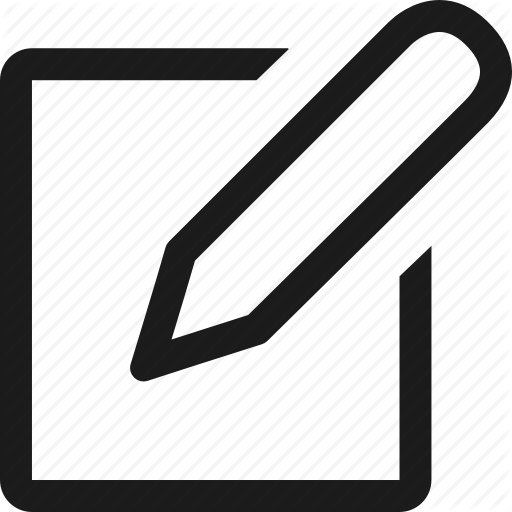
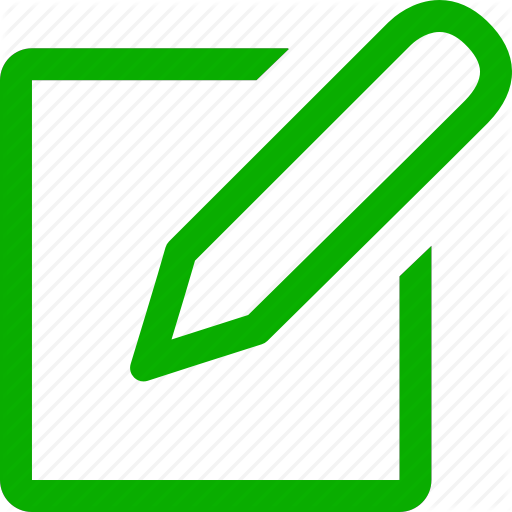
changed background and colors

Changed region(s): [[0.25, 0.0, 1.0, 0.75], [0.0, 0.0938, 0.8438, 1.0]]

diff --git a/src/components/inputFields.vue b/src/components/inputFields.vue
@@ -1,33 +1,37 @@
 <template>
   <div>
-    <div class="container">
-      <div class="row form">
-        <form class="col s12" id="inputFields">
-          <div class="row">
-            <div class="input-field col s12">
-              <i class="material-icons prefix">mode_edit</i>
-              <textarea v-model="noteTitle"
-                        id="icon_prefix2"
-                        class="materialize-textarea">
-              </textarea>
-              <label for="icon_prefix2">Note title</label>
-            </div>
-          </div>
-          <div class="row">
-            <div class="input-field col s12">
-              <i class="material-icons prefix">note</i>
-              <textarea v-model="noteVal" id="icon_prefix2" class="materialize-textarea"></textarea>
-              <label for="icon_prefix2">Note text</label>
-              <span id="errorMesagge"
-                    v-if="!valid">
-                    Can't add note. Note must have title and note text!
-              </span>
-              <div class="col s12">
-                <a @click="addNote()" class="waves-effect waves-light btn add">add note</a>
+    <div id="component">
+      <div class="container">
+        <div class="row form">
+          <form class="col s12" id="inputFields">
+            <div class="row">
+              <div class="input-field col s12">
+                <i class="material-icons prefix">mode_edit</i>
+                <textarea v-model="noteTitle"
+                          id="icon_prefix2"
+                          class="materialize-textarea">
+                </textarea>
+                <label for="icon_prefix2">Note title</label>
               </div>
             </div>
-          </div>
-        </form>
+            <div class="row">
+              <div class="input-field col s12">
+                <i class="material-icons prefix">note</i>
+                <textarea v-model="noteVal" id="icon_prefix2"
+                          class="materialize-textarea">
+                </textarea>
+                <label for="icon_prefix2">Note text</label>
+                <span id="errorMesagge"
+                      v-if="!valid">
+                      Can't add note. Note must have title and note text!
+                </span>
+                <div class="col s12">
+                  <a @click="addNote()" class="waves-effect waves-light btn add">add note</a>
+                </div>
+              </div>
+            </div>
+          </form>
+        </div>
       </div>
     </div>
   </div>
@@ -90,14 +94,46 @@ export default {
 };
 </script>
 <style lang="scss" scoped>
-  .container{
-    margin-top: 50px;
-    border: 3px inset #26a69a;
-  }
-  .form{
-    padding: 20px;
+body{
+  width: 100%;
+}
+  #component{
+    padding: 30px;
     margin: 0;
-    z-index: 0;
+    // position: absolute;
+    top: 50px;
+    left: 0;
+    width: 100%;
+    //background-image: url('../assets/back.jpg');
+  }
+  .container{
+    margin-top: 20px;
+    border: 4px inset #E5002D;
+    background-color: rgba(229, 255, 255, 0.7);
+    form{
+      color: #E5002D;
+      z-index: 0;
+      padding-top: 20px;
+      label{
+        color: black !important;
+      }
+      textarea{
+        border-bottom-color: black;
+      }
+    }
+  }
+  .input-field textarea{
+    border-bottom: 1px solid #E5002D !important;
+  }
+  .input-field textarea:focus + label {
+    color: #000;
+  }
+  .input-field textarea:focus {
+    border-bottom: 2px solid #45D500 !important;
+    box-shadow: 0 1px 0 0 #000;
+  }
+  .input-field .prefix.active {
+    color: #45D500;
   }
   a{
     z-index: 0;
@@ -108,7 +144,15 @@ export default {
   .add{
     margin-top: 20px;
     width: 30%;
+    background-color: #E5002D;
+    color: #45D500;
+    &:hover{
+      color: #E5002D;
+      background-color: #45D500;
+      font-weight: bold;
+    }
   }
+
   #errorMesagge{
     color: red;
   }

diff --git a/src/App.vue b/src/App.vue
@@ -1,10 +1,14 @@
 <template>
-  <div id="app">
+  <div id="app" class="pen">
     <navBar id="nav"/>
+    <div class="full">
     <div class="container">
-      <input-fields id="fields"/>
+      <input-fields id="fields" class="panel top"/>
     </div>
+    </div>
+
     <notesToDisplay/>
+    <footerBottom/>
   </div>
 </template>
 
@@ -12,6 +16,7 @@
 import navBar from './components/navBar.vue';
 import inputFields from './components/inputFields.vue';
 import notesToDisplay from './components/notesToDisplay.vue';
+import footerBottom from './components/footerBottom.vue';
 
 export default {
   name: 'app',
@@ -19,6 +24,7 @@ export default {
     navBar,
     inputFields,
     notesToDisplay,
+    footerBottom,
   },
   mounted() {
     // eslint-disable-next-line
@@ -29,8 +35,12 @@ export default {
 
 <style lang="scss">
 body{
-  margin: 0;
-  background-color: aquamarine;
+  height: 100%;
+  background-color: #FF96AB;
+  //background-color: #E5002D;
+  background-color: #45D500;
+  background-image: url('./assets/back.jpg');
+  background-repeat: repeat-y;
 }
 #nav{
   position: absolute;
@@ -38,7 +48,11 @@ body{
 }
 #fields{
   z-index: 0;
-  margin-top: 100px;
+  margin-top: 40px;
+}
+.full{
+  width: 100%;
+  border-bottom: 6px solid #E5002D;
 }
 #app {
   position: absolute;

diff --git a/src/components/noteCard.vue b/src/components/noteCard.vue
@@ -87,31 +87,45 @@ export default {
 </script>
 
 <style lang="scss" scoped>
-@media only screen and (max-width : 1500px) {
-  .card{
-    width: 200px !important;
+  @media only screen and (max-width : 1500px) {
+    .card{
+      width: 200px !important;
+    }
   }
-}
-@media only screen and (max-width : 500px) {
-  .card{
-    width: 300px !important;
+  @media only screen and (max-width : 500px) {
+    .card{
+      width: 300px !important;
+    }
   }
-}
-.col{
-  width: 300px;
-}
-.card{
-  width: 300px;
-  background-color: #036B60 !important;
-  word-wrap: break-word;
-}
-.textArea{
-  overflow-y: auto;
-}
-#text{
-  margin-top: 40px;
-}
-.card-title{
-  border-bottom: 1px solid aquamarine;
-}
+  .col{
+    width: 300px;
+  }
+
+  .card{
+    width: 300px;
+    background-color: #E5002D;
+    word-wrap: break-word;
+    background-size: 100%;
+  }
+  .textArea{
+    overflow-y: auto;
+  }
+  #text{
+    margin-top: 40px;
+  }
+  .card-title{
+    border-bottom: 1px solid #45D500;
+  }
+  .card-action{
+    border-top-color: #45D500 !important;
+    a{
+      color: #45D500 !important;
+      &:hover{
+        font-weight: bold;
+      }
+    }
+  }
+  .input-field .prefix.active {
+    color: #45D500;
+  }
 </style>

diff --git a/src/components/navBar.vue b/src/components/navBar.vue
@@ -5,7 +5,7 @@
         <div class="row">
           <div class="col s6 m6 l6">
             <img src="../assets/note.png" alt="" width="40px" height="40px">
-            <span id="logoText">SimpleNotes</span>
+            <span id="logoText">Simple<span id="textNotes">Notes</span> </span>
           </div>
           <div class="col s6 m6 l6">
               <a @click="removeAllNotes()"
@@ -32,7 +32,8 @@ export default {
 <!-- Add "scoped" attribute to limit CSS to this component only -->
 <style scoped lang="scss">
   nav{
-    background: linear-gradient(to bottom,#003C36, rgb(46, 138, 129));
+    //background: linear-gradient(to bottom,#003C36, rgb(46, 138, 129));
+    background-color: #E5002D;
     position: fixed;
   }
   img{
@@ -45,5 +46,18 @@ export default {
     margin-left: 80px;
     float: left;
     font-size: 26px;
+    color: #45D500;
+    font-weight: bolder;
+    span{
+      color: #ffffff;
+      font-weight: lighter;
+    }
+  }
+  #deleteBtn{
+    color: #E5002D;
+    background-color: #45D500;
+    &:hover{
+      font-weight: bolder;
+    }
   }
 </style>

diff --git a/src/components/notesToDisplay.vue b/src/components/notesToDisplay.vue
@@ -1,5 +1,5 @@
 <template>
-<div>
+<div id="component">
   <div class="container">
     <div class="row">
       <div v-for="(note, index) in notes" :key="index" class="col l3 m3 s12">
@@ -27,9 +27,16 @@ export default {
 </script>
 
 <style lang="scss" scoped>
-  .container{
-    margin-top: 50px;
-  }
+body{
+  height: 100%;
+}
+#component{
+  padding-top: 20px;
+  top: auto;
+  width: 100%;
+  border-top: 5px solid #45D500;
+}
+
   .col{
     margin-left: 55px !important;
   }

diff --git a/src/components/footerBottom.vue b/src/components/footerBottom.vue
@@ -1,0 +1,24 @@
+<template>
+  <div>
+    <div id="footer">
+
+    </div>
+  </div>
+</template>
+
+<script>
+export default {
+  name: 'footerBottom',
+};
+</script>
+
+<style lang="scss" scoped>
+  #footer{
+    position: fixed;
+    border-top: 3px solid #45D500;
+    width: 100%;
+    height: 30px;
+    bottom: 0;
+    background-color: #E5002D;
+  }
+</style>
